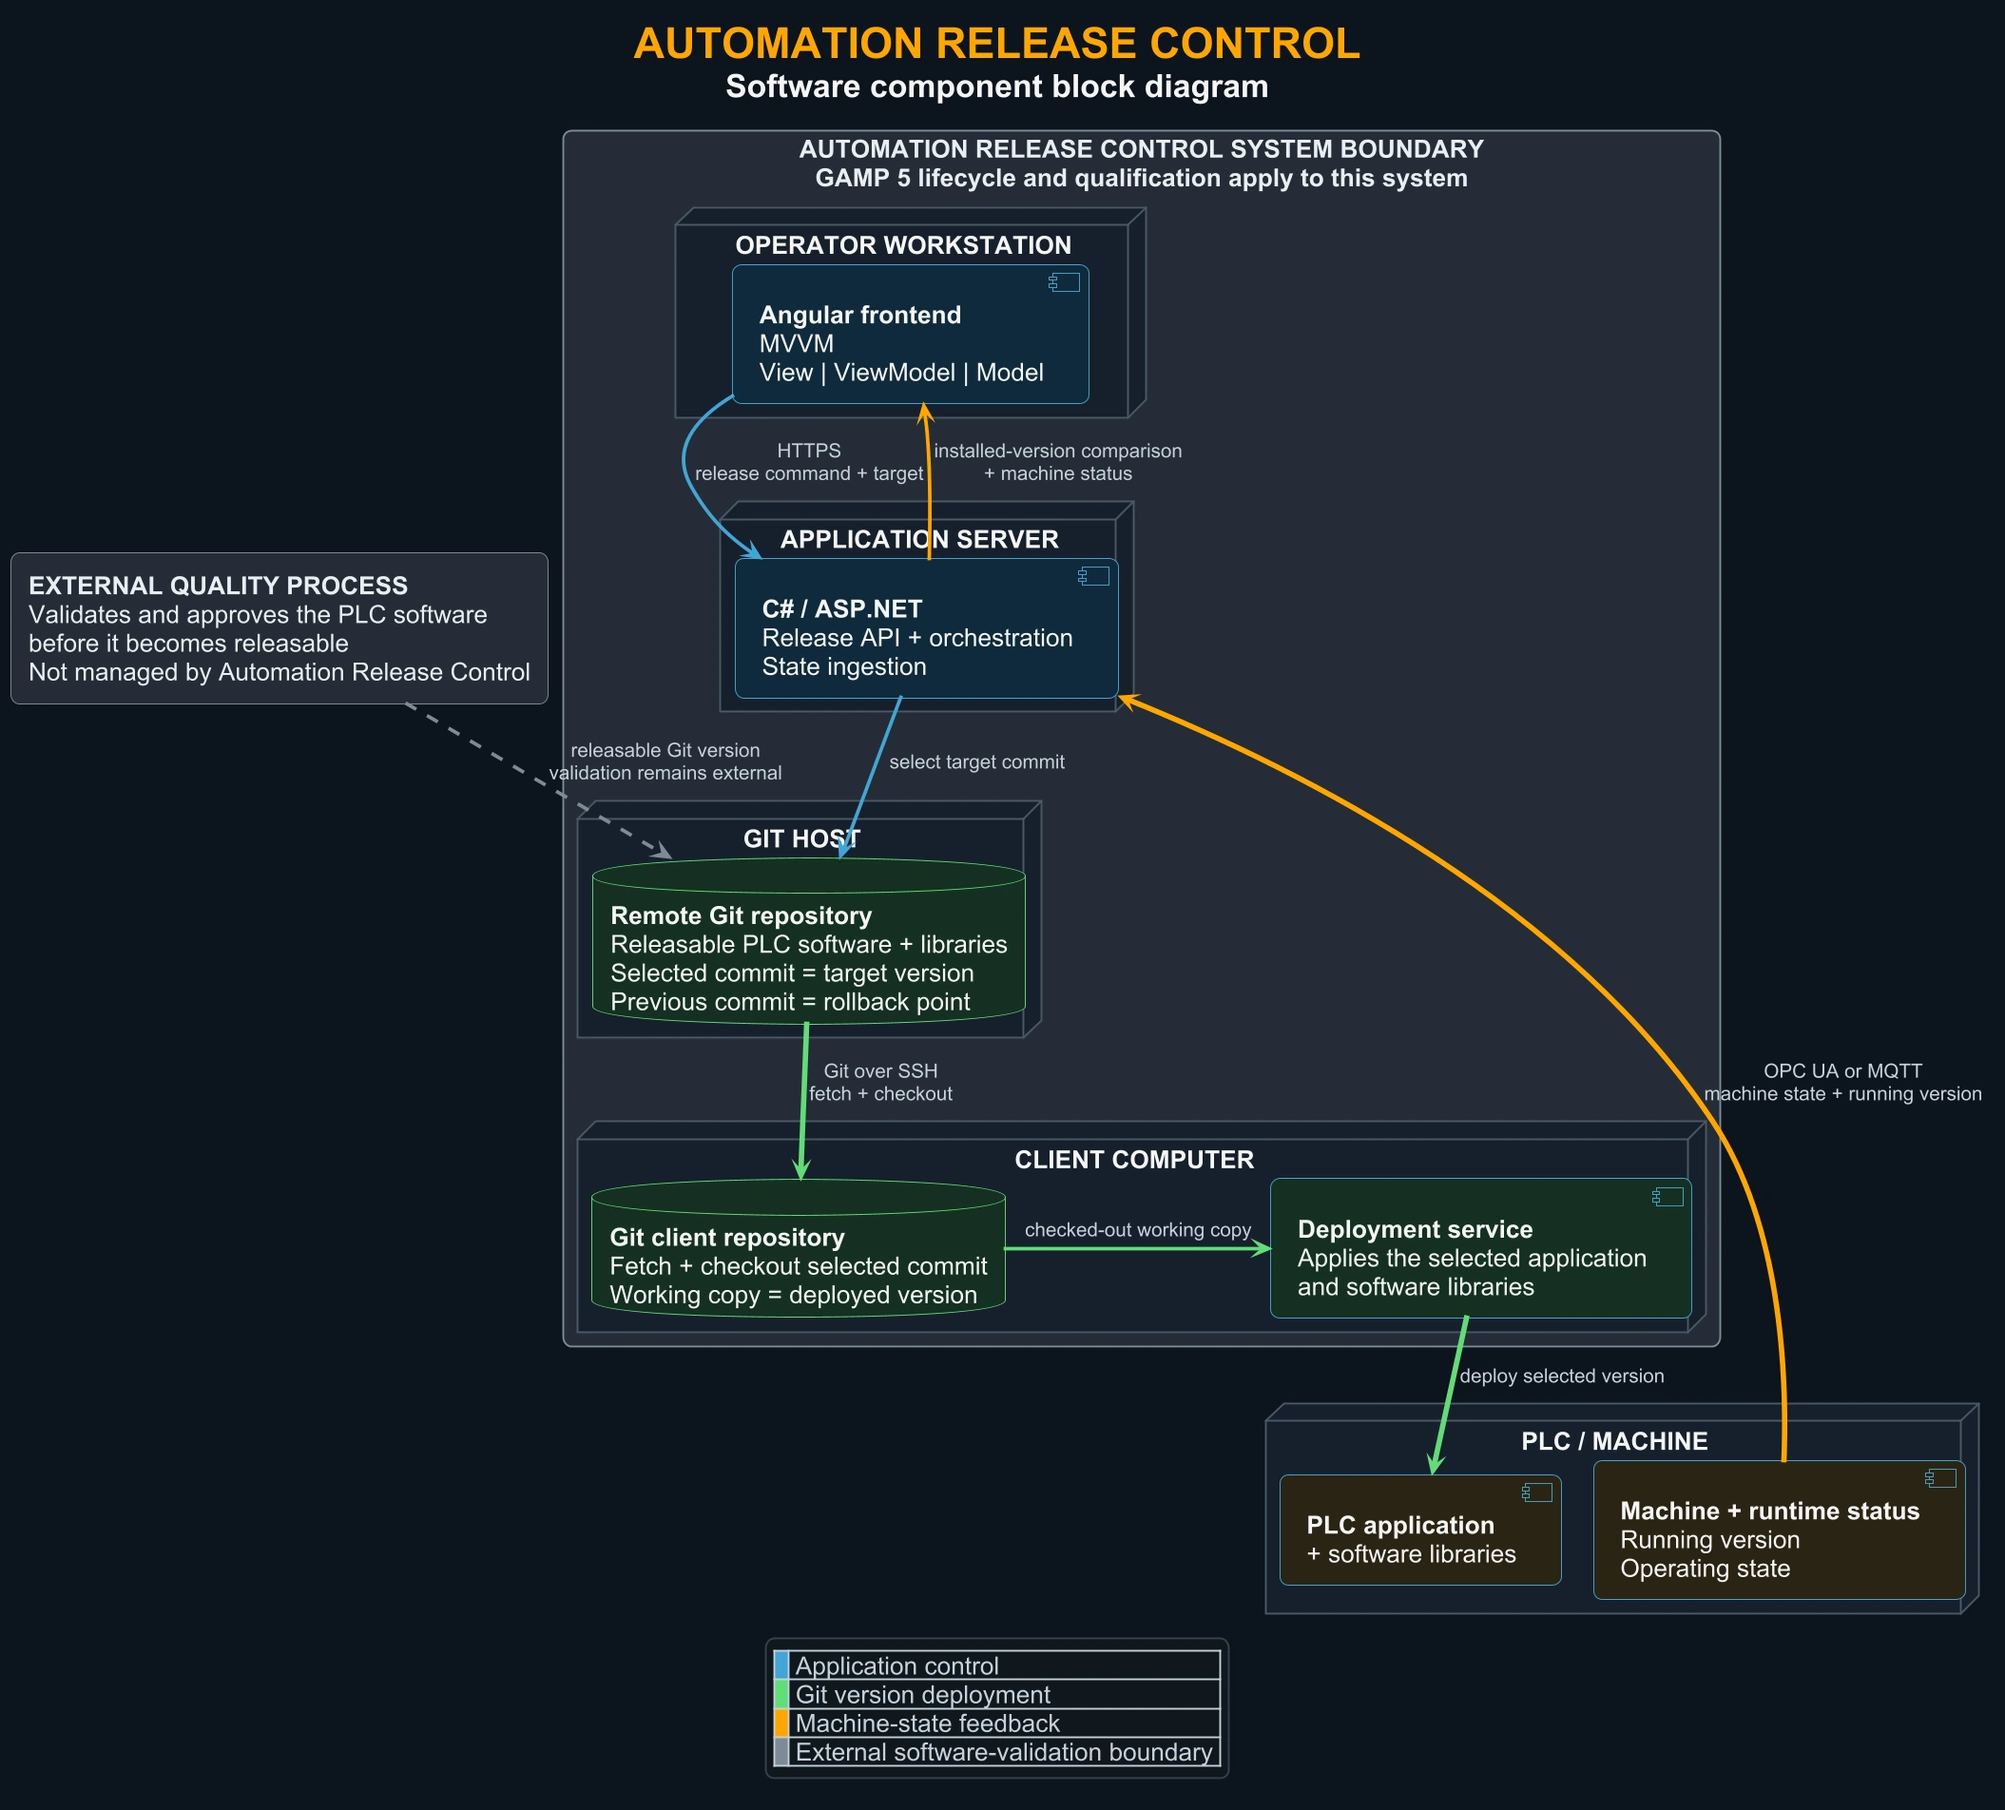
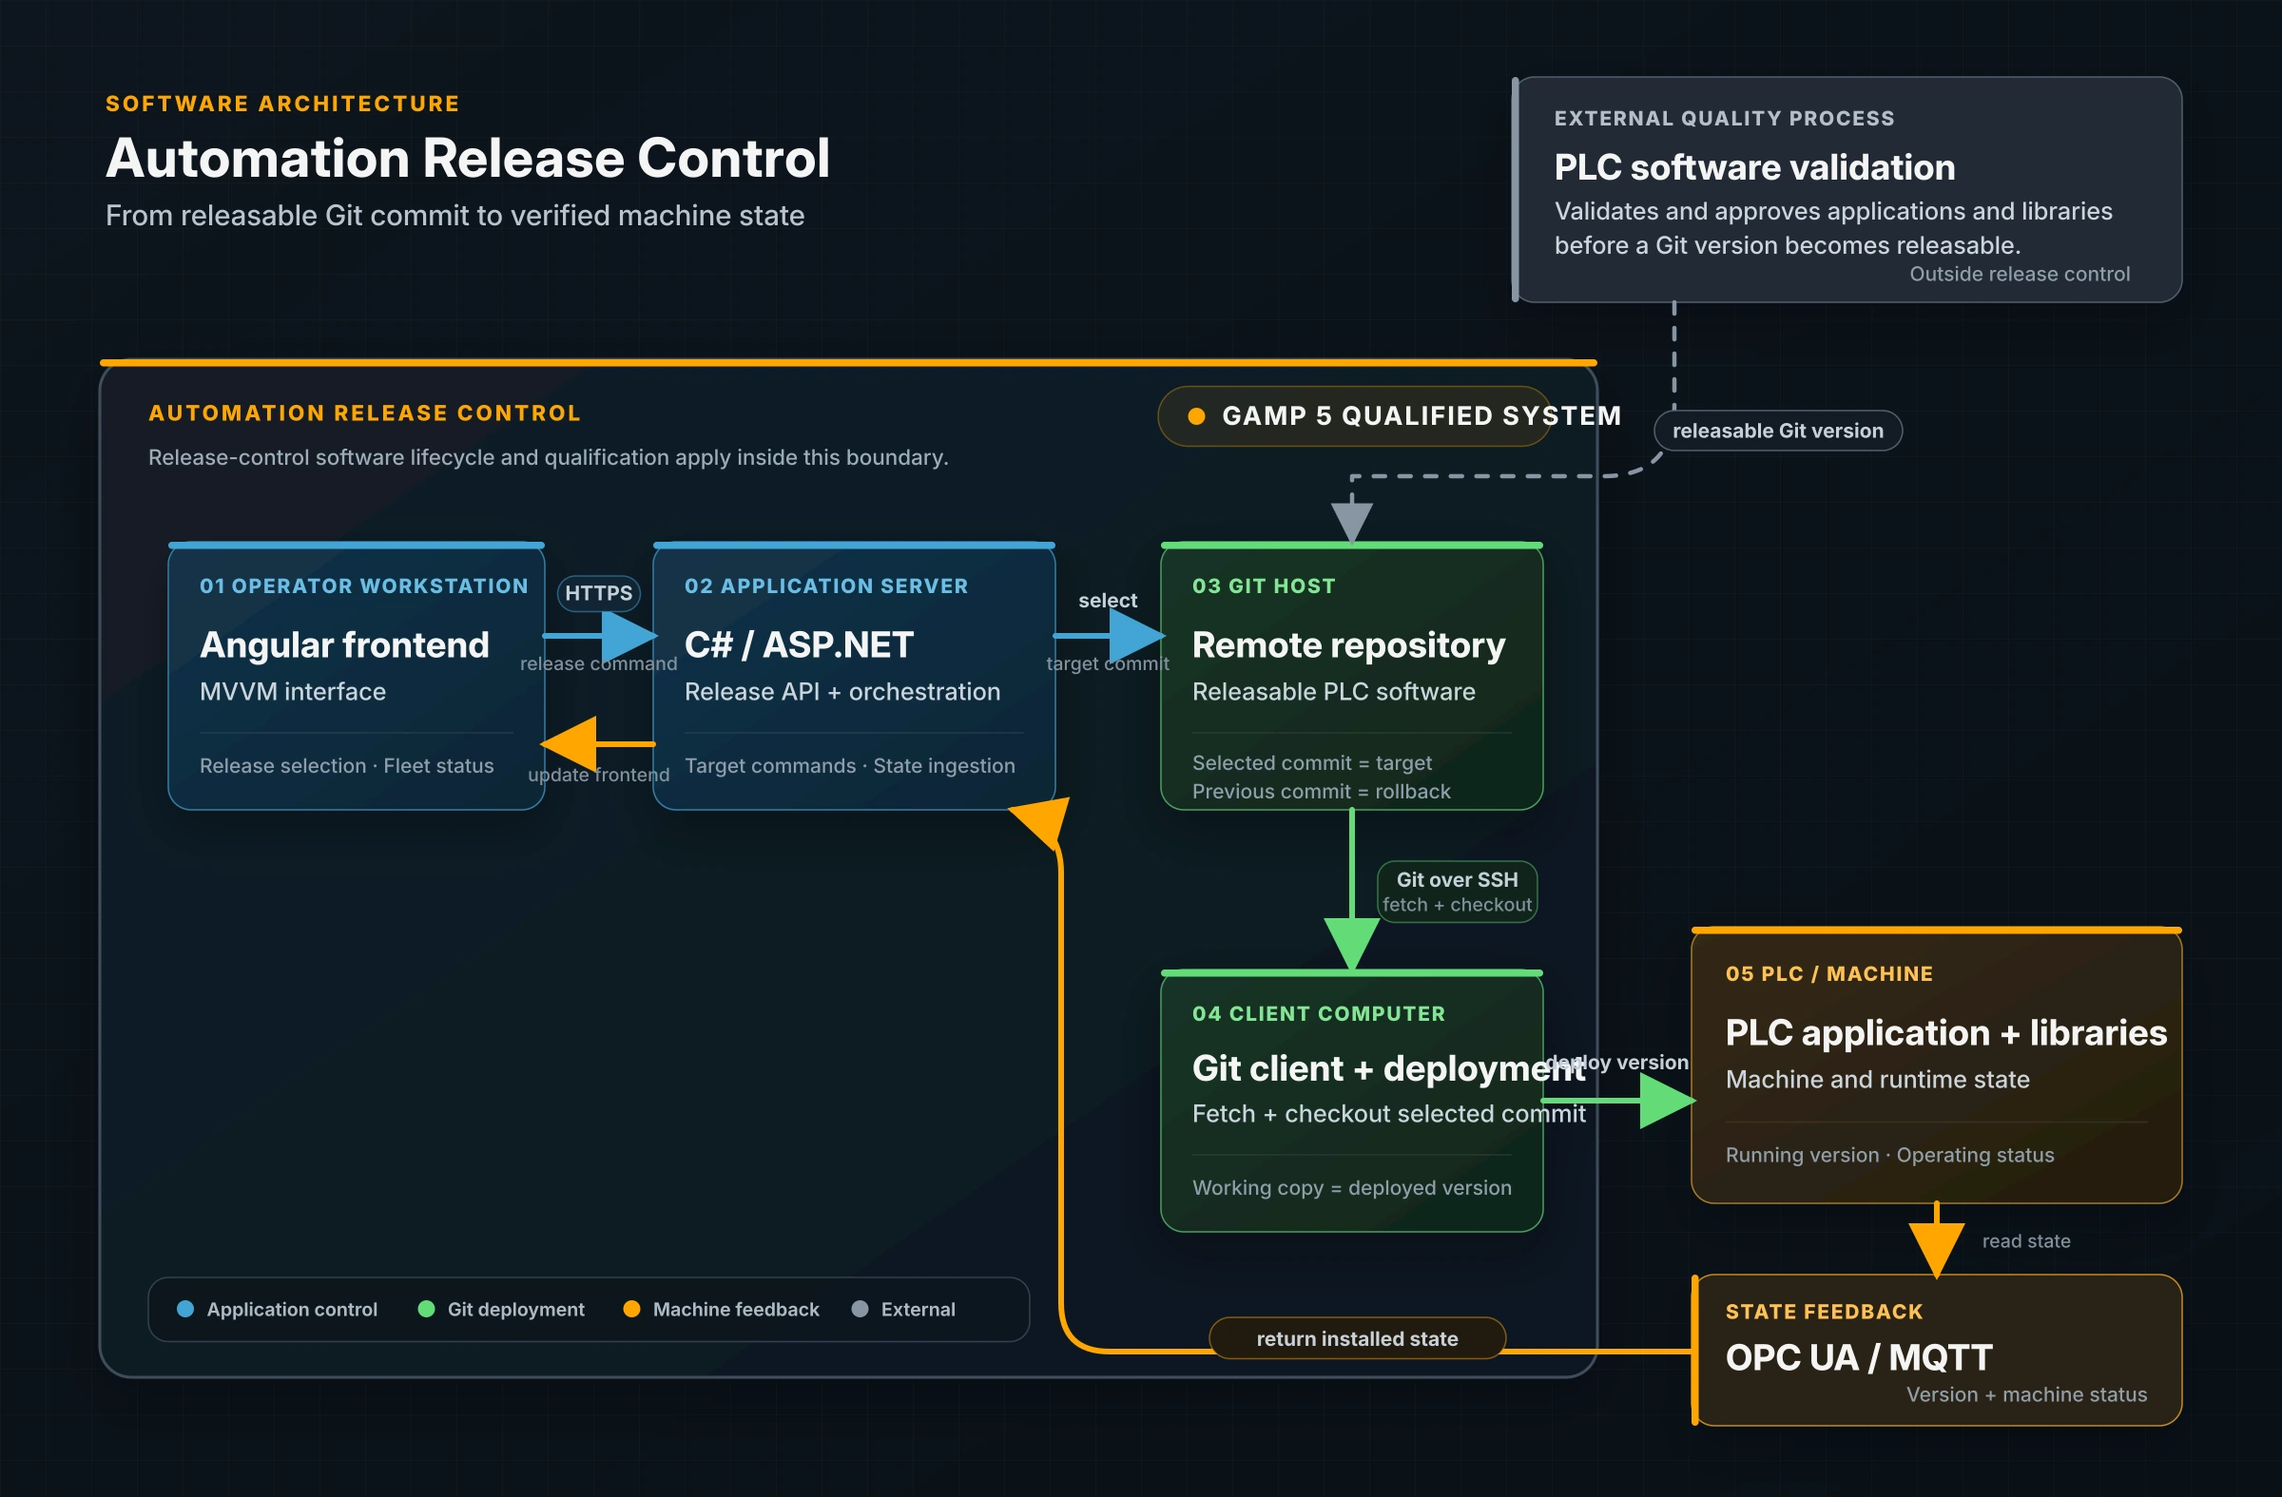
Refine release architecture diagram

diff --git a/projects/controlled-release-platform/index.html b/projects/controlled-release-platform/index.html
@@ -208,7 +208,7 @@
                                 </figcaption>
 
                                 <a class="architecture-image-link" href="assets/automation-release-control-architecture.webp" target="_blank" rel="noopener" aria-label="Open the Automation Release Control software architecture at full resolution">
-                                    <img src="assets/automation-release-control-architecture.webp" alt="PlantUML block diagram showing an external PLC software validation process, the GAMP 5 Automation Release Control boundary, an Angular MVVM operator workstation, a C# ASP.NET application server, a Git host, a client computer with a Git repository and deployment service, and an OPC UA or MQTT feedback path from the PLC and machine." width="2109" height="1904" loading="lazy" decoding="async">
+                                    <img src="assets/automation-release-control-architecture.webp" alt="Stylized block diagram based on the PlantUML logical source, showing an external PLC software validation process, the GAMP 5 Automation Release Control boundary, an Angular MVVM operator workstation, a C# ASP.NET application server, a Git host, a client computer with Git deployment, a PLC and machine, and an OPC UA or MQTT feedback path." width="2400" height="1575" loading="lazy" decoding="async">
                                 </a>
 
                                 <p class="architecture-note">Automation Release Control itself followed a GAMP 5 lifecycle and had its own qualification evidence. Validation of the PLC software remained external. The system selected a releasable Git commit, checked it out on the client computer, deployed it to the PLC, and returned machine state through OPC UA or MQTT.</p>

diff --git a/projects/controlled-release-platform/style.md b/projects/controlled-release-platform/style.md
@@ -108,7 +108,7 @@ The local PULSE lineup treatment provides the typography baseline: Outfit, upper
 
 ### 2026-08-12
 
-- Replaced the HTML architecture drawing with a PlantUML-authored WebP block diagram. It prioritizes the physical components: operator workstation, application server, Git host, client computer, and PLC/machine. The diagram also shows Git on the host and client, OPC UA/MQTT feedback, and the Angular MVVM frontend. The editable `.puml` source remains public beside the image.
+- Reworked the architecture graphic into a deliberately composed 2400 × 1575 WebP. The editable `.puml` remains the logical source of truth, while a companion SVG controls the exact web arrangement, typography, paths, and premium dark styling. This avoids the tall or ultra-wide layouts produced automatically once the machine-feedback loop is included.
 
 - Corrected the system boundary throughout the case study. Automation Release Control itself followed a GAMP 5 lifecycle and had its own IQ/OQ qualification evidence. Validation and approval of the PLC applications and libraries happened in an external quality process before a Git version became releasable; the platform did not manage that validation.
 
